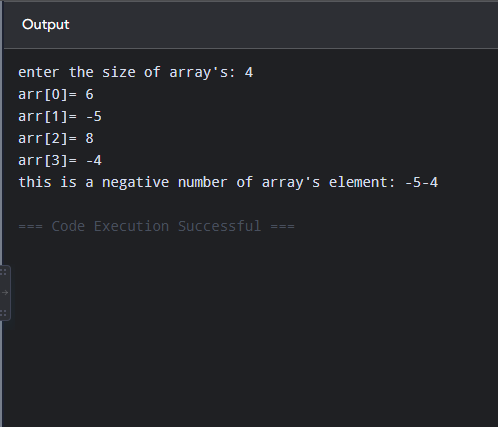
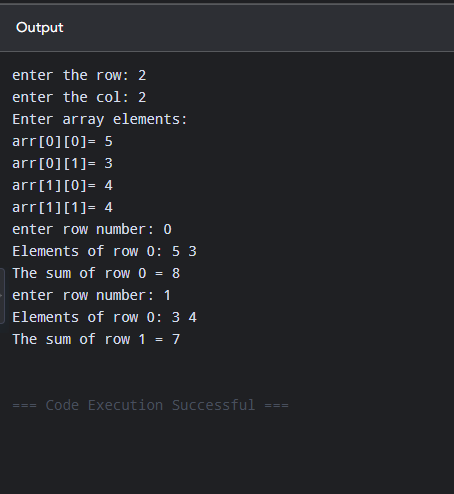
commit

diff --git a/SUM-ELEMENTS-ROW-COL-2D-ARRAY/main.c b/SUM-ELEMENTS-ROW-COL-2D-ARRAY/main.c
@@ -2,24 +2,55 @@
 
 int main(){
 
-    int size;
+    int row;
+    int col;
 
-    printf("enter the size of array's: ");
-    scanf("%d",&size);
+    printf("enter the row: ");
+    scanf("%d",&row);
 
-    int arr[size];
+    printf("enter the col: ");
+    scanf("%d",&col);
 
-    for(int i=0; i<size; i++){
-            printf("arr[%d]= ",i);
-            scanf("%d",&arr[i]);
+    int arr[row][col];
+
+    printf("Enter array elements:\n");
+
+    for(int i=0; i<row; i++){
+        for(int j=0; j<col; j++){
+            printf("arr[%d][%d]= ",i,j);
+            scanf("%d",&arr[i][j]);
+        }
     }
 
-    printf("this is a negative number of array's element: ");
+    int rownum;
 
-    for(int j=0; j<size; j++){
-            if(arr[j]<0){
-                printf("%d",arr[j]);
-            }
-    }
+    printf("enter row number: ");
+    scanf("%d",&rownum);
+
+    int rowsum = 0;
+
+        printf("Elements of row %d: ", rownum);
+
+        for (int j = 0; j < col; j++) {
+            printf("%d ", arr[rownum][j]);
+            rowsum += arr[rownum][j];
+        }
+        printf("\nThe sum of row %d = %d\n", rownum, rowsum);
+
+    int colnum;
+
+    printf("enter row number: ");
+    scanf("%d",&colnum);
+
+    int colsum = 0;
+
+        printf("Elements of col %d: ", rownum);
+
+        for (int j = 0; j < row; j++) {
+            printf("%d ", arr[j][colnum]);
+            colsum += arr[j][colnum];
+        }
+        printf("\nThe sum of col %d = %d\n", colnum, colsum);
+    
     return 0;
 }

diff --git a/NEGATIVE-ELEMENT-1D-ARRAY/main.c b/NEGATIVE-ELEMENT-1D-ARRAY/main.c
@@ -1,0 +1,25 @@
+#include <stdio.h>
+
+int main(){
+
+    int size;
+
+    printf("enter the size of array's: ");
+    scanf("%d",&size);
+
+    int arr[size];
+
+    for(int i=0; i<size; i++){
+            printf("arr[%d]= ",i);
+            scanf("%d",&arr[i]);
+    }
+
+    printf("this is a negative number of array's element: ");
+
+    for(int j=0; j<size; j++){
+            if(arr[j]<0){
+                printf("%d",arr[j]);
+            }
+    }
+    return 0;
+}
